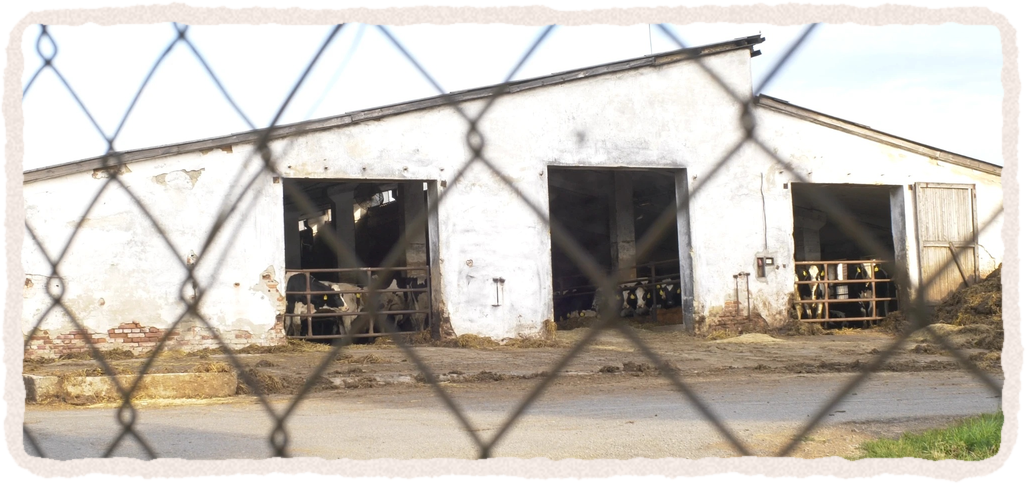
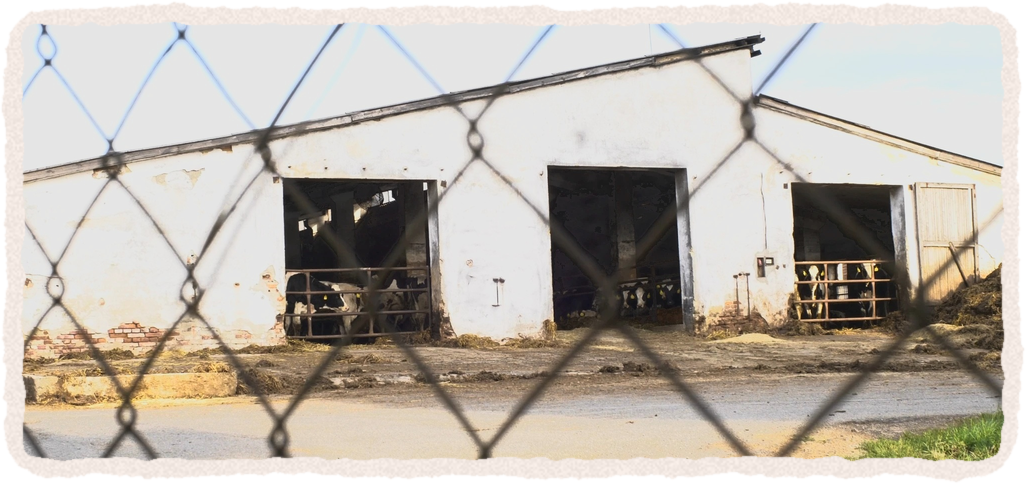
kpz-telata v43: kravín přes plot se staženými světly
Claude-Session: https://claude.ai/code/session_01QNMbg5rgnTmZW3xhWKT3wH

diff --git a/scenes/kpz-telata/assets/foto-kpz/README.md b/scenes/kpz-telata/assets/foto-kpz/README.md
@@ -21,7 +21,7 @@ Výstřižky v `vystrizky/` vyrobené `.claude/skills/vox-animation/scripts/cuto
 | masne-pastva-2.webp | stádo tzv. masných krav na pastvě, ležící telata, kopce (KPZ 2026-10-29, Midjourney) | blob `masne-pastva-2-tvar.png` – v32 hygiena 0:46–0:52 (místo `masne-pastva-kojeni`) |
 | pastva-skutecna-blize.jpg | **skutečná fotka** (kamarádka KPZ, 2026-11; nafoceno pro toto video, souhlas s použitím, autorku neuvádět): stádo tzv. masných krav u stromů, telata u krav, podzim | blob `pastva-skutecna-blize-tvar.png` – v34 hygiena 0:46 |
 | telata-boudy-dve.jpg | dvě holštýnská telata, každé ve své boudě za ohrádkou (KPZ 2026-11-18) | `-upr.jpg` (čísla na 4 známkách rozostřená) → kus `telata-boudy-dve.png` – v38 hook 0:15 („přestože je to společenské zvíře“) |
-| kravin-pres-plot.jpg | starý kravín přes pletivo, krávy za zábranami, hromada hnoje (KPZ 2026-11-18; známky v dálce nečitelné) | kus `kravin-pres-plot.png` – v38 hygiena 0:40 („průběžně“) |
+| kravin-pres-plot.jpg | starý kravín přes pletivo, krávy za zábranami, hromada hnoje (KPZ 2026-11-18; známky v dálce nečitelné) | `-upr.jpg` (v43: stažené přepálené světlo – nebe a bílá zeď, jemný kontrast) → kus `kravin-pres-plot.png` – hygiena 0:44 („průběžně“) |
 | pastva-skutecna-dal.jpg | **skutečná fotka** (kamarádka KPZ, 2026-11; nafoceno pro toto video, souhlas s použitím, autorku neuvádět): stádo daleko na pastvě, podzimní les, západ slunce | blob `pastva-skutecna-dal-tvar.png` (přiblíženo) – v34 zalehnutí 1:06 |
 | masne-pastva-rada.jpg | krávy s telaty jdou v řadě po svahu (KPZ 2026-10-25) | zatím nepoužito (zvířata malá) |
 | masne-pastva-celem.jpg | krávy čelem k fotografovi, ležící kráva s teletem (KPZ 2026-10-25) | zatím nepoužito (málo telat) |
@@ -89,5 +89,6 @@ v16 (2026-10-25) – nové pastviny (čísla na známkách nečitelně malá, be
     # v38 – T = tag_retouch.py, S = cutout.py
     python3 $T telata-boudy-dve.jpg telata-boudy-dve-upr.jpg --rect 323,471,385,520 --rect 561,461,621,506 --rect 1370,571,1446,622 --rect 1636,608,1706,662
     python3 $S telata-boudy-dve-upr.jpg vystrizky/telata-boudy-dve.png --piece --seed 27 --crop 110,0,2000,1074 --scale 0.5
-    python3 $S kravin-pres-plot.jpg vystrizky/kravin-pres-plot.png --piece --seed 33 --crop 0,90,2000,1000 --scale 0.5
+    # v43: světla stažena křivkou (gamma 1,08, rameno od 0,55 do max. 0,90, jemná S-křivka, sytost 1,1) → kravin-pres-plot-upr.jpg
+    python3 $S kravin-pres-plot-upr.jpg vystrizky/kravin-pres-plot.png --piece --seed 33 --crop 0,90,2000,1000 --scale 0.5
     python3 $S pastva-skutecna-dal.jpg vystrizky/pastva-skutecna-dal-tvar.png --shape blob --tight 0.75 --seed 91 --crop 360,650,1720,1170

diff --git a/.claude/skills/vox-animation/FEEDBACK.md b/.claude/skills/vox-animation/FEEDBACK.md
@@ -1,6 +1,6 @@
 # Feedback & vývoj skillu
 
-**Verze skillu: 0.26.7**
+**Verze skillu: 0.26.8**
 
 Tento soubor je paměť skillu. Pravidla níže mají **přednost** před
 `references/style-guide.md`. Postup zápisu je v `SKILL.md` → „Smyčka zpětné vazby“.
@@ -158,3 +158,4 @@ Pravidla specifická pro organizaci KPZ (obsah, tón, slovník) jsou v
 | 2026-11-18 | 0.26.5 | kpz-telata v41 | „Dal bych tam ‚Často je to ale hned‘, protože my nevíme, jak často to je.“ | Zpět na původní take (cache). Poučení: kvantifikátor (často × většinou) volit podle toho, co je změřené pro ČR, ne podle zkušenosti nebo EU dat. |
 | 2026-11-18 | 0.26.6 | kpz-telata v42 | „Já ale chtěl oddělat to do těch 12 hodin. A začít tím výzkumným ústavem.“ | Pozor na nedorozumění – „dej tam tu metodiku“ znamenalo nahradit, ne přidat; u nejasného pokynu se krátce zeptat. Před namluvením ověřen plný text metodiky: „doporučuje do 2 h“ tam doslova není → věrná parafráze. |
 | 2026-11-18 | 0.26.7 | kpz-telata v42 → v41 | „Ne, to zní debilně.“ (věta „Podle VÚŽV by tele nemělo zůstat u matky déle než dvě hodiny“) → „Nechme verzi 41.“ | Zpět na v41. Poučení: přeformulování „kvůli přesnosti“ nejdřív poslat jako text ke schválení, ne rovnou namluvit a renderovat. |
+| 2026-11-18 | 0.26.8 | kpz-telata v43 | „U té fotky kravínu v 0:44 trošku stáhnout tu přeexponovanost.“ | Tónová křivka na jas (rameno ve světlech, max. ~0,9), jemná S-křivka a +10 % sytosti; přepálené nebe se nedokresluje. |

diff --git a/scenes/kpz-telata/dalsi-verze.md b/scenes/kpz-telata/dalsi-verze.md
@@ -294,3 +294,7 @@ KPZ: „Já ale chtěl oddělat to do těch 12 hodin. A začít tím výzkumným
 - **KPZ:** „Ne, to zní debilně. Kde jsme vzali těch 12 hodin? To je doporučení?“ → (12 h = změřená praxe, Staněk 2014 / Šárová 2021) → „Nechme verzi 41.“ Scéna a popisek vráceny na v41 (`assets-v41`), render v42 zastaven. **Platná verze = v41** (`out/kpz-telata-reel-v41.mp4`).
 - Připravená odpověď, kdyby někdo napadl „doporučuje do dvou hodin“: metodika VÚŽV 2023 (Malá a kol., s. 6) – „Včasné oddělení telete od matky … má pozitivní vliv na snížení incidence onemocnění. U telat, která zůstala u krav po dobu delší než 2 hodiny, byla prokázána vyšší frekvence výskytu onemocnění.“
 
+## v43 (2026-11-18) – v41 + kravín přes plot bez přepálení
+
+KPZ: „U té fotky kravínu v 0:44 trošku stáhnout tu přeexponovanost.“ → `kravin-pres-plot-upr.jpg`: světla stažena (33 % plochy bylo přepálených – nebe, bílá zeď; teď nic nad 230), jemný kontrast ve středech a sytost, ať fotka nezšedne. Hlas v41 beze změny, 2:58,8. Render `out/kpz-telata-reel-v43.mp4`.
+
